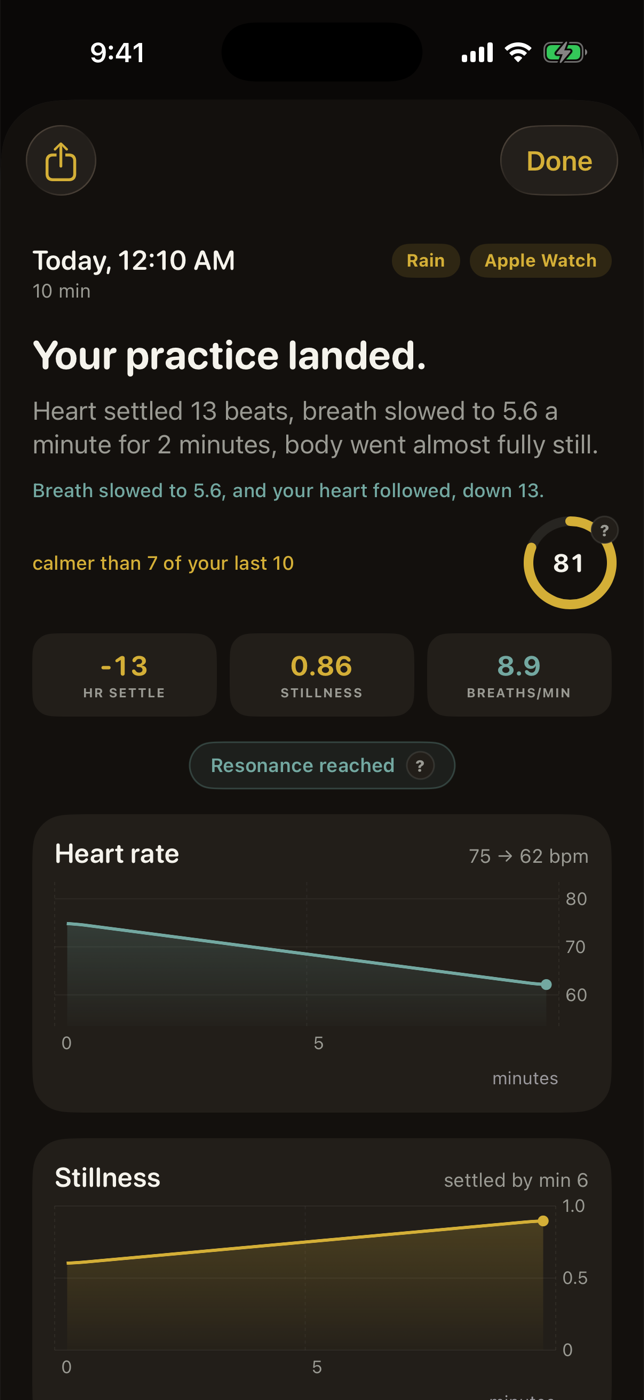
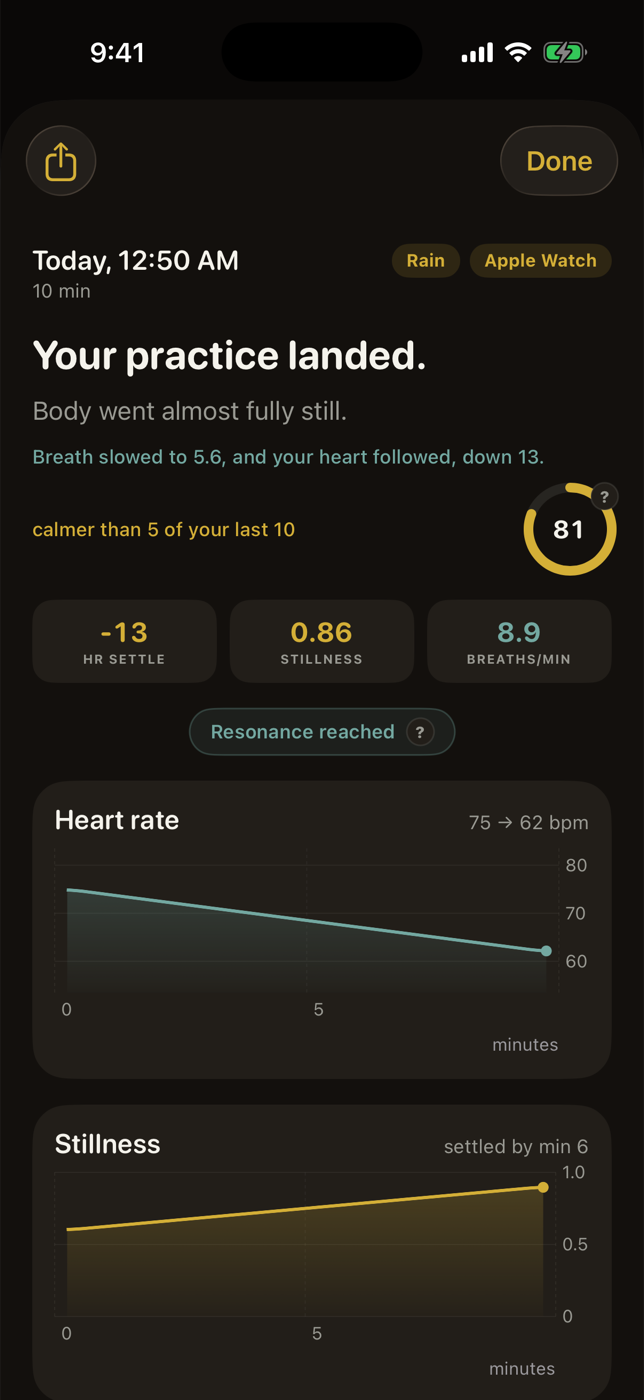
Results: nothing said twice, and breath never silently vanishes
Melvin caught both on the website screenshots.

The verdict sentence and the coupling line were built from the same two
numbers, so every good session said everything twice: "heart settled 13,
breath slowed to 5.6, body went almost fully still" over "Breath slowed to
5.6, and your heart followed, down 13." Now, when the coupling line is going
to show, it owns breath and heart and the sentence owns what is left. The
test that asserted the duplication now asserts the split: every signal named
once across the two lines, never repeated.

And when no breath was readable, the section used to just not exist, which
reads as a bug. The card stays, titled "too quiet to read": it blames the
signal rather than the sitter, and it is literally true, since the stiller
the body the smaller the wave. The caption says slow breathing is what the
wrist reads best without ever claiming breathing always works, which is the
copy line Aziz drew.

The website's high-score screenshot is recaptured without the duplicate.
199 tests green.

diff --git a/Shared/Engine/VerdictEngine.swift b/Shared/Engine/VerdictEngine.swift
@@ -50,8 +50,33 @@ public enum VerdictEngine {
     public static func verdict(for m: Inputs) -> Verdict {
         let overall = m.overallScore ?? 0
 
+        // When the coupling line is going to appear under this sentence, it
+        // carries the breath and heart facts, so the sentence must not. Both
+        // texts were built from the same two numbers, and on every good session
+        // the screen said everything twice: Melvin caught it on a screenshot
+        // ("heart settled 13... breath slowed to 5.6" followed by "Breath
+        // slowed to 5.6, and your heart followed, down 13").
+        let couplingWillShow = doorwayCoupling(doorwayRate: m.breathDoorwayRate,
+                                               hrDecline: m.hrDecline) != nil
+
         // Collect true, concrete claims — strongest first within each signal.
         var claims: [String] = []
+
+        if couplingWillShow {
+            // The one signal the coupling line does not cover.
+            if let s = m.stillnessScore {
+                if s >= 0.85 { claims.append("body went almost fully still") }
+                else if s >= 0.65 { claims.append("body mostly settled") }
+                else if s < 0.4 { claims.append("body stayed restless") }
+            }
+            let headline = headlineFor(overall)
+            let sentence = claims.isEmpty
+                ? (overall >= 0.55 ? "The signals agree: you settled."
+                                   : "A quieter read this time. Showing up still counts.")
+                : claims.prefix(3).joined(separator: ", ")
+                    .replacingFirstLetterCapitalized() + "."
+            return Verdict(headline: headline, sentence: sentence)
+        }
 
         if let d = m.hrDecline {
             if d >= 10 { claims.append("heart settled \(Int(d.rounded())) beats") }
@@ -75,13 +100,7 @@ public enum VerdictEngine {
             else if s < 0.4 { claims.append("body stayed restless") }
         }
 
-        let headline: String
-        switch overall {
-        case 0.75...:      headline = "Your practice landed."
-        case 0.55..<0.75:  headline = "It landed, gently."
-        case 0.35..<0.55:  headline = "A mixed one."
-        default:           headline = "A restless one. That happens."
-        }
+        let headline = headlineFor(overall)
 
         let sentence: String
         if claims.isEmpty {
@@ -171,6 +190,15 @@ public enum VerdictEngine {
     /// **Its absence means nothing.** People reach the same state without ever
     /// slowing their breath, so this line appears when the pattern is seen and
     /// is never negated when it isn't.
+    private static func headlineFor(_ overall: Double) -> String {
+        switch overall {
+        case 0.75...:      return "Your practice landed."
+        case 0.55..<0.75:  return "It landed, gently."
+        case 0.35..<0.55:  return "A mixed one."
+        default:           return "A restless one. That happens."
+        }
+    }
+
     public static func doorwayCoupling(doorwayRate: Double?, hrDecline: Double?) -> String? {
         guard let rate = doorwayRate, let drop = hrDecline, drop >= 3 else { return nil }
         return String(format: "Breath slowed to %.1f, and your heart followed, down %d.",

diff --git a/Coherence/Session/SessionResultsView.swift b/Coherence/Session/SessionResultsView.swift
@@ -40,7 +40,15 @@ struct SessionResultsView: View {
                             hero(stats)
                             tiles(stats)
                             if stats.breathDoorwayRate != nil { resonanceChip }
-                            ForEach(SessionEvidence.series(from: stats)) { graphCard($0) }
+                            let series = SessionEvidence.series(from: stats)
+                            ForEach(series) { graphCard($0) }
+                            // Breath never silently vanishes. When nothing was
+                            // readable the card stays, and says so, because a
+                            // missing section reads as a bug and an honest
+                            // absence reads as an instrument.
+                            if !series.contains(where: { $0.kind == .breathing }) {
+                                breathingUnreadCard
+                            }
                             shareButton
                         } else {
                             missingStatsCard
@@ -398,6 +406,32 @@ struct SessionResultsView: View {
             Text("This session's measurements aren't on this device. Results are kept only on the device that recorded them, and they're never uploaded.")
                 .font(AppFont.caption)
                 .foregroundStyle(AppColor.textSecondary)
+        }
+        .card()
+    }
+
+    /// The breathing card for a session with no readable breath.
+    ///
+    /// "Too quiet to read" is deliberate: it blames the signal, not the
+    /// sitter, and it is literally true, since the stiller the body the
+    /// smaller the wave. The caption states what reads best without ever
+    /// claiming breathing always works, which is the line Aziz drew for
+    /// user-facing copy.
+    private var breathingUnreadCard: some View {
+        VStack(alignment: .leading, spacing: 8) {
+            HStack(alignment: .firstTextBaseline) {
+                Text("Breathing")
+                    .font(AppFont.headline)
+                    .foregroundStyle(AppColor.textPrimary)
+                Spacer()
+                Text("too quiet to read")
+                    .font(AppFont.caption)
+                    .foregroundStyle(AppColor.textSecondary)
+            }
+            Text("No steady breath rose above the session's own movement this time. Slow, deliberate breathing, around six a minute, is what the wrist reads best.")
+                .font(AppFont.caption)
+                .foregroundStyle(AppColor.textSecondary)
+                .fixedSize(horizontal: false, vertical: true)
         }
         .card()
     }

diff --git a/CoherenceTests/VerdictEngineTests.swift b/CoherenceTests/VerdictEngineTests.swift
@@ -6,14 +6,37 @@ import XCTest
 /// signals actually show, and a weak session is coached honestly, never shamed.
 final class VerdictEngineTests: XCTestCase {
 
-    func test_strongSession_namesEverySignal() {
-        let v = VerdictEngine.verdict(for: .init(
+    /// The hero is the sentence PLUS the coupling line, and between them every
+    /// signal is named exactly once. They used to both carry breath and heart,
+    /// built from the same two numbers, so every good session said everything
+    /// twice. Melvin caught it on a screenshot.
+    func test_strongSession_namesEverySignalOnceAcrossBothLines() {
+        let inputs = VerdictEngine.Inputs(
             overallScore: 0.81, stillnessScore: 0.88, hrDecline: 11,
             meanBreathingRate: 5.8, resonanceMatchScore: 0.72,
-            breathDoorwayRate: 5.8, breathDoorwayHeldSec: 180, bellyBreathing: true))
+            breathDoorwayRate: 5.8, breathDoorwayHeldSec: 180, bellyBreathing: true)
+        let v = VerdictEngine.verdict(for: inputs)
+        let coupling = VerdictEngine.doorwayCoupling(doorwayRate: 5.8, hrDecline: 11)
+
         XCTAssertEqual(v.headline, "Your practice landed.")
+        XCTAssertNotNil(coupling)
+
+        // The coupling line owns breath and heart.
+        XCTAssertTrue(coupling!.contains("5.8"), coupling!)
+        XCTAssertTrue(coupling!.contains("11"), coupling!)
+        // The sentence owns what's left, and repeats neither.
+        XCTAssertTrue(v.sentence.contains("still"), v.sentence)
+        XCTAssertFalse(v.sentence.contains("breath"), "the sentence repeats the coupling line")
+        XCTAssertFalse(v.sentence.contains("beats"), "the sentence repeats the coupling line")
+    }
+
+    /// With no doorway there is no coupling line, so the sentence must carry
+    /// heart and stillness itself, exactly as before.
+    func test_noDoorway_sentenceStillNamesTheSignals() {
+        let v = VerdictEngine.verdict(for: .init(
+            overallScore: 0.7, stillnessScore: 0.88, hrDecline: 11,
+            bellyBreathing: false))
         XCTAssertTrue(v.sentence.contains("11 beats"), v.sentence)
-        XCTAssertTrue(v.sentence.contains("breath slowed"), v.sentence)
         XCTAssertTrue(v.sentence.contains("still"), v.sentence)
     }
 
